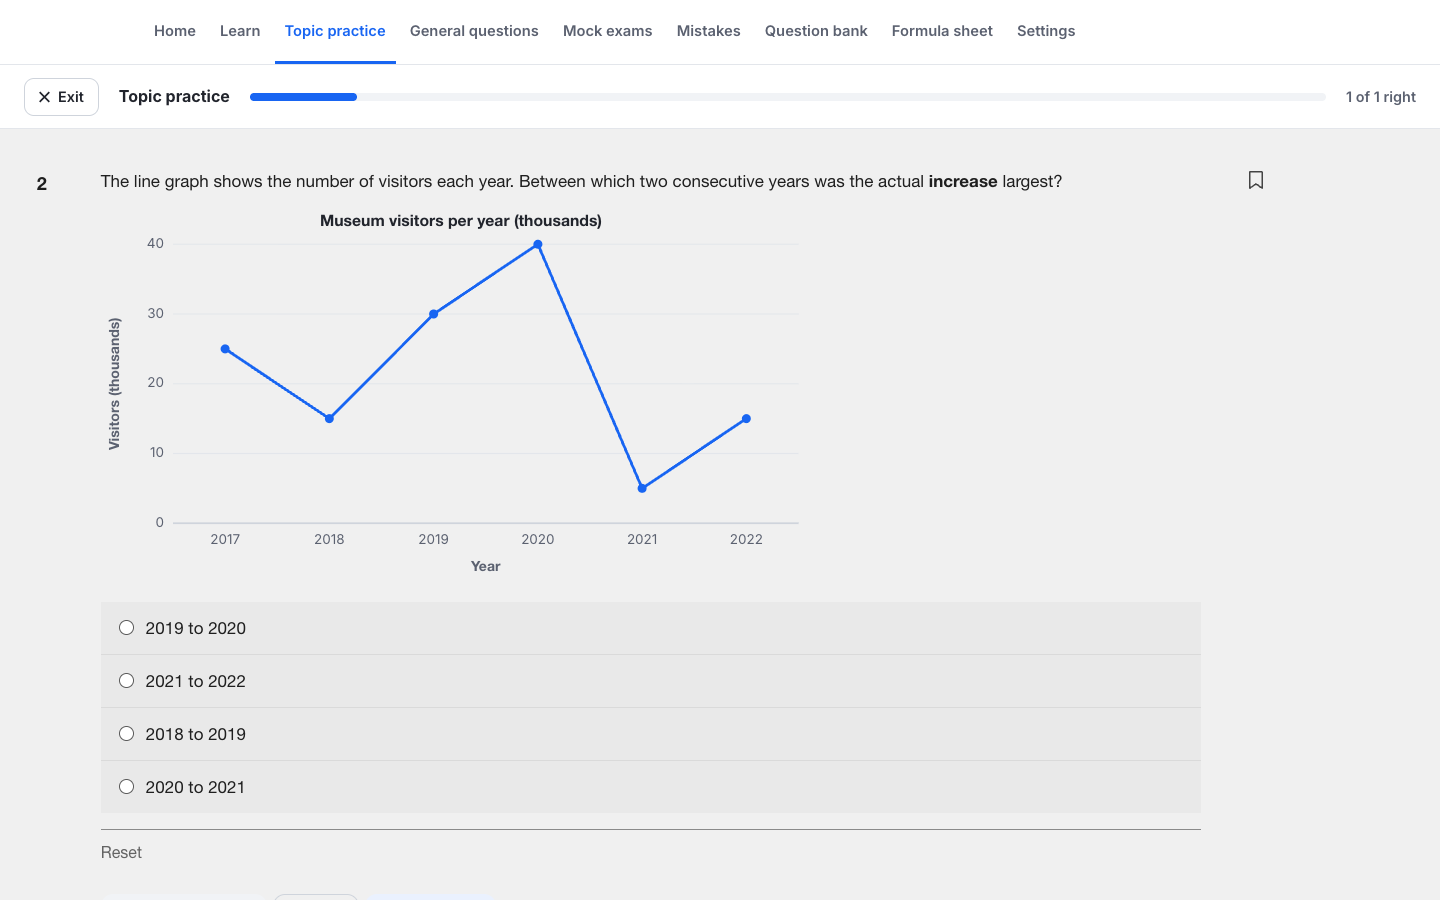
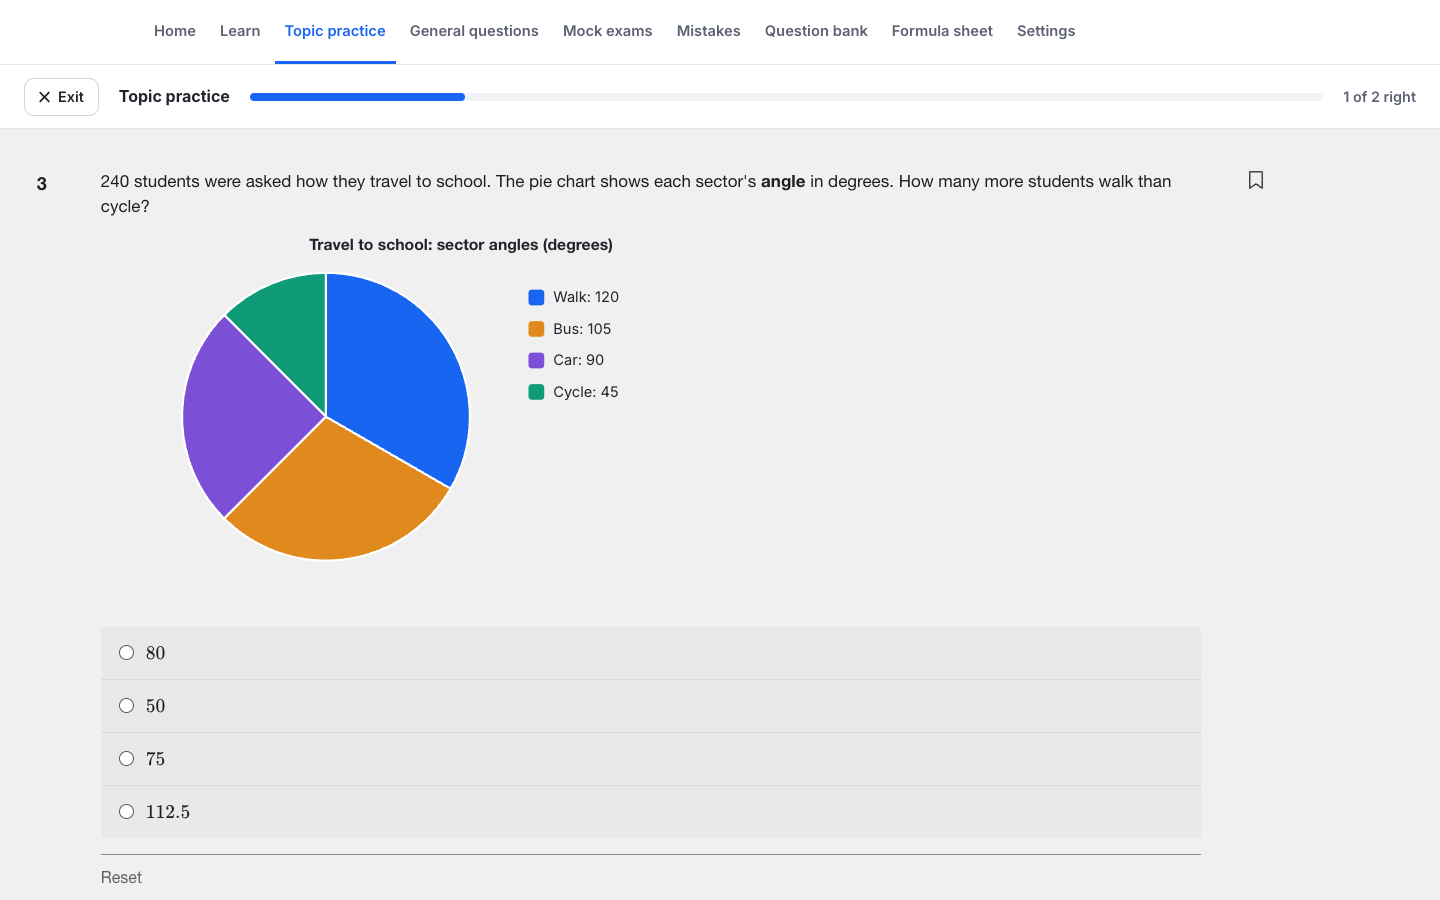
Update README and screenshots for the new explanations

diff --git a/README.md b/README.md
@@ -33,7 +33,7 @@ Made by Paul Nercessian
 
 <table>
 <tr>
-<td><img src="docs/screenshots/practice.png" alt="Practice with mark scheme"></td>
+<td><img src="docs/screenshots/practice.png" alt="Practice with explanation"></td>
 <td><img src="docs/screenshots/mock.png" alt="Mock exam"></td>
 </tr>
 <tr>
@@ -46,13 +46,16 @@ Made by Paul Nercessian
 </tr>
 </table>
 
-### Every question has a full mark scheme
+### Every question teaches you how to solve it
 
-1. The correct answer, stated clearly.
-2. A step-by-step worked solution (code questions are traced line by line).
-3. Why each wrong option is wrong, naming the mistake that leads to it.
-4. The key idea in one sentence.
-5. A link to the lesson.
+After you answer, the correct answer comes first, then why your answer was wrong if it was. The explanation assumes you're new to the topic and has four parts:
+
+1. **What is it asking?** The question in one simple sentence.
+2. **How to solve it.** Numbered steps that skip nothing and say why each one happens. Code is shown with line numbers and traced in small tables.
+3. **Why this is the answer.** A short link from the working to the correct option.
+4. **For similar questions.** A reusable technique for this type of question, never generic advice.
+
+You can also see why each other option is wrong, and jump to the lesson.
 
 ## Syllabus
 
@@ -133,9 +136,9 @@ Questions live in one file per subtopic: `src/questions/<area>/<topic>/<subtopic
 
 ## How correctness is checked
 
-`npm test` runs 613 tests:
+`npm test` runs 861 tests:
 
-- Every static question: exactly 4 distinct options, a valid answer, a full mark scheme with an explanation for every wrong option, and every piece of LaTeX rendered through KaTeX in strict mode (it also rejects maths typed as plain text, `1x`, `+ -3` and similar).
+- Every static question: exactly 4 distinct options, a valid answer, a full explanation, with a reason for every wrong option, and every piece of LaTeX rendered through KaTeX in strict mode (it also rejects maths typed as plain text, `1x`, `+ -3` and similar).
 - Every question whose answer is a value is recomputed in code and must match the marked option (and no other option).
 - Every Python output question (10 of them) is run with real Python 3 and its output compared with the marked option. If Python isn't installed, the test prints the list of question ids to check by hand instead of failing.
 - Every generator: 2,000 variants each, checking one correct option, four distinct options, no `NaN`/`undefined`, clean LaTeX, and that the worked solution ends on the correct answer.
@@ -143,6 +146,7 @@ Questions live in one file per subtopic: `src/questions/<area>/<topic>/<subtopic
 - Every pseudocode snippet must parse under the house dialect, and every snippet that can run on its own is run by a small interpreter and compared with the marked option.
 - The house style is enforced: short stems, no option that depends on a letter, Python at most 20% of Programming code questions, and at least 15 questions (6 Exam, 5 Foundation) per subtopic. `npm run report` prints the per-subtopic counts.
 - Old saved progress that refers to removed questions, generators or subtopics loads cleanly, and the exam screen's colours keep at least 4.5:1 contrast.
+- Every explanation has all four parts in plain, short sentences, states the marked answer, and gives a usable technique instead of generic advice. Pseudocode in explanations must parse under the dialect, and missing or broken explanation data still shows the answer without crashing.
 - Every question yields at least one progressive hint that stops short of the full solution; mastery levels, the Build up ladder, and the mix of levels in mocks are unit-tested.
 
 On top of the automated tests, every question whose answer isn't computed in code was independently re-solved by a separate reviewer.
@@ -154,8 +158,8 @@ The look is based on the revision tools students already know, such as Khan Acad
 - Light theme by default (dark theme in Settings), one blue accent, and green/red used only for right and wrong.
 - Every mode reads questions in the same block: a bold number at the left, the stem, grey option rows with radio circles and no letters, a rule, Reset, and a bookmark at the right.
 - Mock exams fill the screen: a "Saved" indicator at the top right, and a bottom strip of numbered tabs with Submit at the end and the timer at the right (click it to hide it). Mocks stay light whatever the theme.
-- In practice, feedback and the mark scheme open below the question, with **Check / Next** under them. The site navigation stays visible.
-- All maths is typeset with KaTeX, and charts are drawn as SVG. Pseudocode is plain Courier everywhere; Python in practice is syntax-highlighted with line numbers.
+- In practice, feedback and the explanation open below the question, with **Check / Next** under them. The site navigation stays visible.
+- All maths is typeset with KaTeX, and charts are drawn as SVG. Pseudocode in a question is plain Courier; code in explanations, and Python in practice, is syntax-highlighted with line numbers.
 - No animations or transitions, apart from a few small ones on the exam screen. Keyboard: `1`–`4` or `A`–`D` choose, `Enter` checks / continues, `F` marks for review, `←` `→` move in mock exams.
 
 ## Tech
